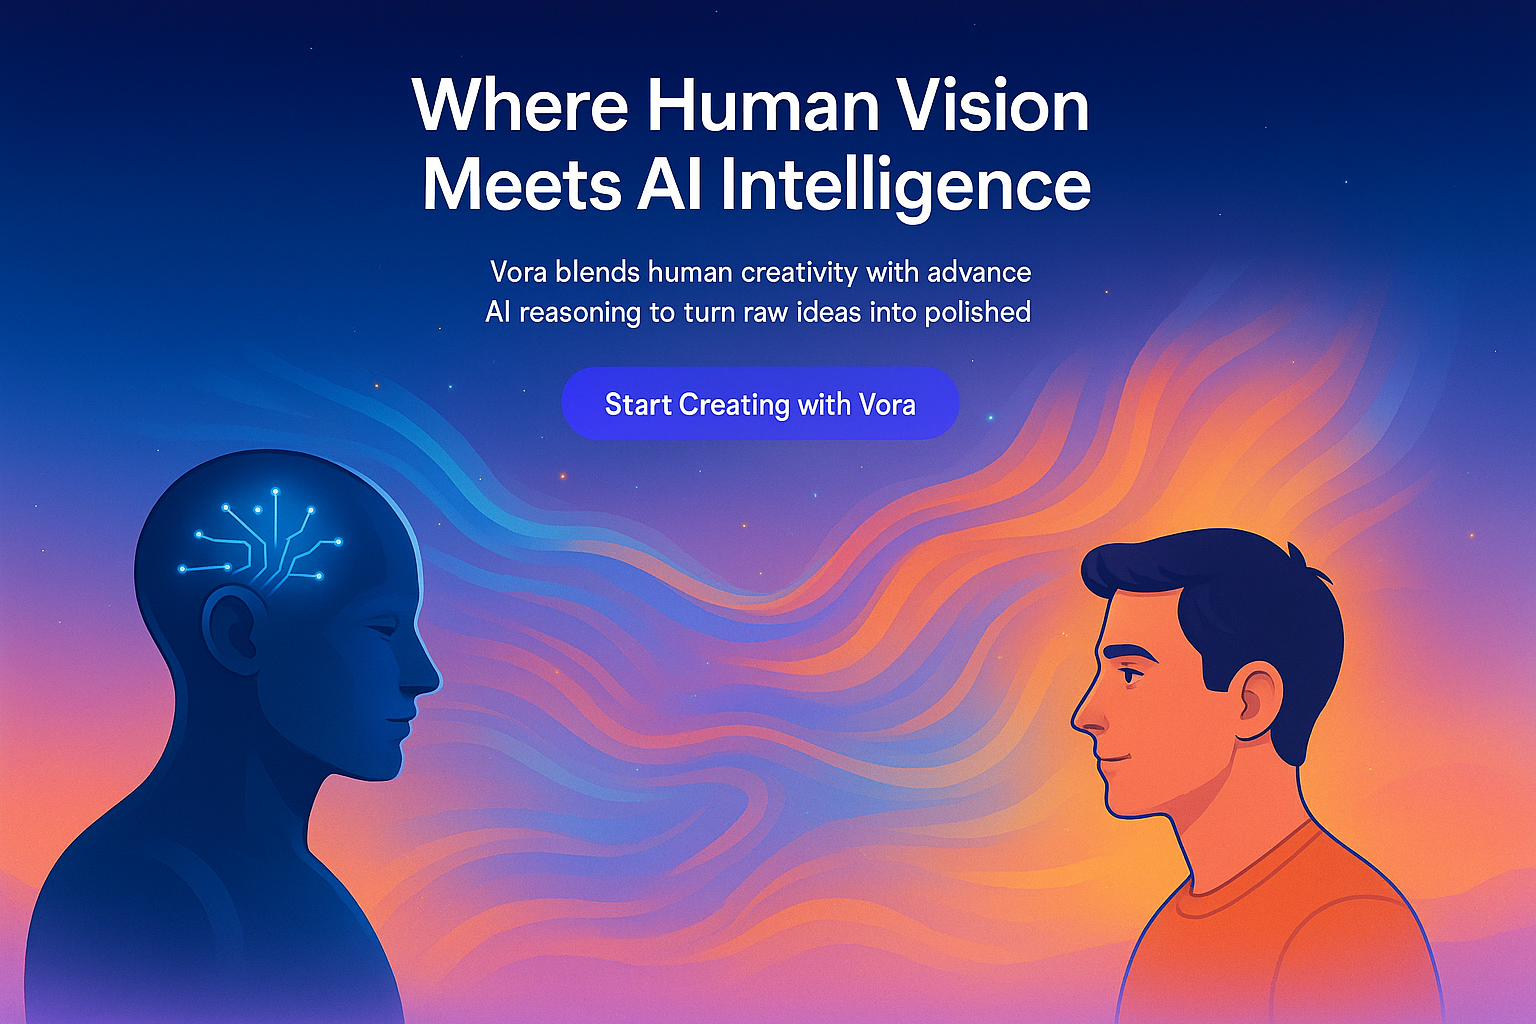
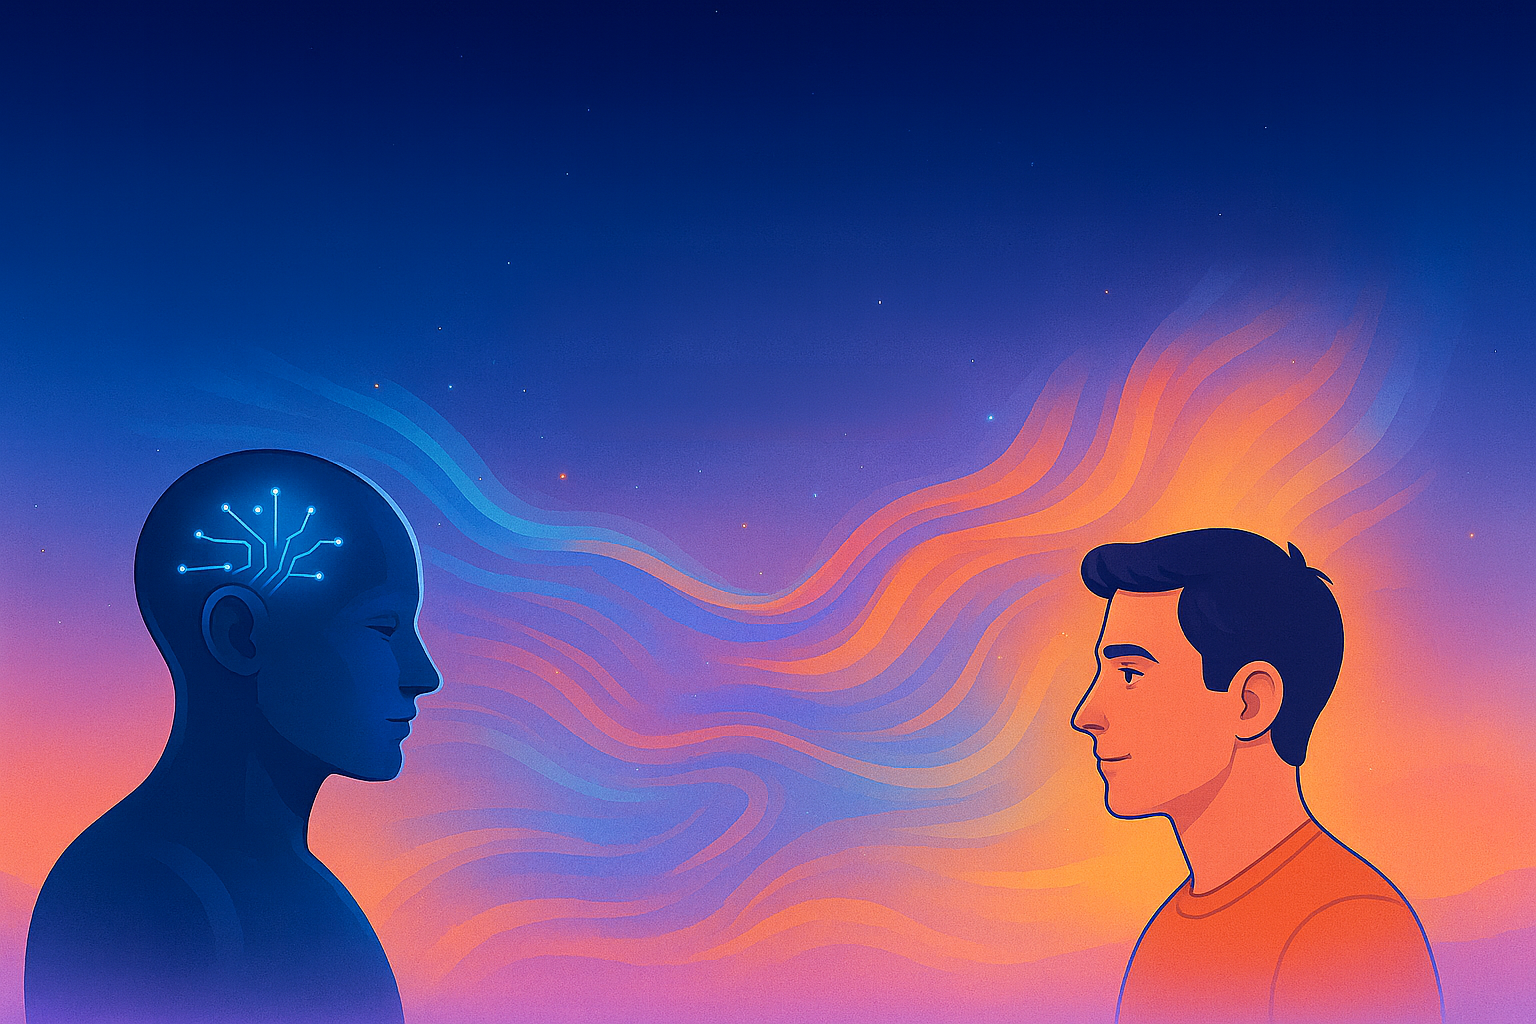
Changes

Changed region(s): [[0.25, 0.0625, 0.7188, 0.2188], [0.3125, 0.25, 0.6875, 0.4375]]

diff --git a/src/components/HeroSection.tsx b/src/components/HeroSection.tsx
@@ -49,9 +49,10 @@ const HeroSection = () => {
             transition={{ duration: 0.8, ease: "easeOut" }}
             className="font-display text-4xl sm:text-5xl lg:text-6xl xl:text-7xl font-bold leading-tight mb-6 text-white"
           >
-            Where Human Vision
+            <span className="block text-vora-coral tracking-wider">VORA</span>
+            Transform Ideas into
             <br />
-            <span className="text-vora-coral">Meets AI Intelligence</span>
+            <span className="text-vora-coral">Stunning Presentations</span>
           </motion.h1>
 
           {/* Subtext */}
